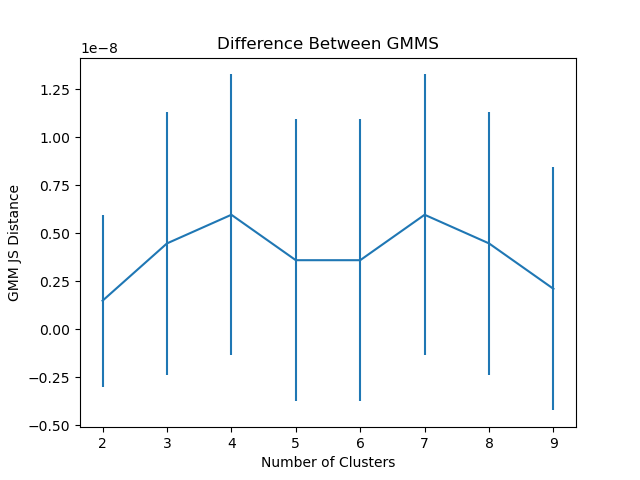
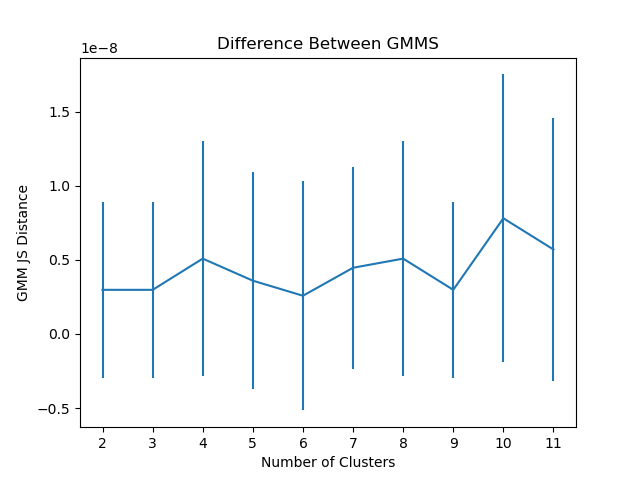
fix: errors in JS cluster fitting and metric calculations

diff --git a/scripts/clustering/gmm_distance.py b/scripts/clustering/gmm_distance.py
@@ -18,7 +18,7 @@ def get_js(m1, m2, n_sample = 10**5):
     log_2_x = m2.score_samples(x)
     log_mix_X = np.logaddexp(log_1_x, log_2_x)
 
-    y = m1.sample(n_sample)[0]
+    y = m2.sample(n_sample)[0]
     log_1_y = m1.score_samples(y)
     log_2_y = m2.score_samples(y)
     log_mix_Y = np.logaddexp(log_1_y, log_2_y)
@@ -38,18 +38,18 @@ def create_js_plot(X, n_range, sample_size = 10000):
         dist = []
         for _ in range(iterations):
             X_sub = X[np.random.choice(len(X), sample_size)]
-
+            scaler = StandardScaler().fit(X_sub)
             # create 50/50 data split
             x1, x2 = train_test_split(X_sub, test_size = 0.5)
 
             #fit models
-            gmm_model = GMM(n_components=n, covariance_type="full")
+            gmm_model = GMM(n_components=n, covariance_type="full", n_init = 20)
             #pipe = Pipeline([('scaler', StandardScaler()), ('gmm', gmm_model)])
             #gmm_1 = pipe.fit(x1)
             #gmm_2 = pipe.fit(x2)
 
-            scaled1 = StandardScaler().fit(x1).transform(x1)
-            scaled2 = StandardScaler().fit(x2).transform(x2)
+            scaled1 = scaler.transform(x1)
+            scaled2 = scaler.transform(x2)
             gmm_1 = gmm_model.fit(scaled1)
             gmm_2 = gmm_model.fit(scaled2)
             dist.append(get_js(gmm_1, gmm_2))
@@ -67,15 +67,24 @@ def create_js_plot(X, n_range, sample_size = 10000):
     return fig
 
 
-def run_js_dist(keywords, param_ranges, 
-                           latRng = [85, 95], lngRng = [230, 330], cluster_rng = [2, 10],
+def run_js_dist(subdir, keywords, param_ranges, 
+                           latRng = [85, 95], lngRng = [230, 330], cluster_rng = [2, 12],
                             cm_num = 1):
     [input_arr, subset_shape] = pre.get_input_array(keywords, param_ranges, latRng, lngRng, cm_num)
     pix_arr = input_arr[:, 0: len(keywords)]
     fig = create_js_plot(pix_arr, cluster_rng)
     keyword_str = "_".join(keywords)
-    fig.savefig(f"cluster_evaluations/GMM_distance_{keyword_str}")
-    
+    fig.savefig(f"cluster_evaluations/{subdir}/js_plot_{keyword_str}")
 
-#run_js_dist(["AOI", "CI"], [[0.1, 0.4], [0.4, 0.8]], [75, 105], [0, 200])
-#run_js_dist(["NH3", "PCld"], [[0, 300], [1000, 3000]], [75, 105], [0, 200])
+lon_range = [0, 30]
+lat_range = [0, 15]
+
+lon_range = [360 - lon_range[1], 360 - lon_range[0]]
+lat_range = [90 - lat_range[1], 90 - lat_range[0]]
+cluster_rng = [2, 12]
+
+
+run_js_dist("20251016UTc/lon_0-30", ["AOI", "CI"], [[0.1, 0.4], [0.4, 0.8]],  lat_range, lon_range, cluster_rng, 1)
+run_js_dist("20251016UTc/lon_0-30", ["NH3", "PCld"], [[0, 300], [1000, 3000]],  lat_range, lon_range, cluster_rng, 1)
+run_js_dist("20251016UTc/lon_0-30", ["275", "395", "502", "619", "631", "645", "673", "727", "889"], 
+                  [[0, 1], [0,  1], [0,  1], [0,  1], [0,  1], [0,  1], [0,  1], [0,  1], [0,  1]], lat_range, lon_range, cluster_rng, 1)

diff --git a/scripts/clustering/cluster_evaluation.py b/scripts/clustering/cluster_evaluation.py
@@ -28,10 +28,11 @@ lat_range = [90 - lat_range[1], 90 - lat_range[0]]
 
 cluster_rng = [2, 10]
 
-get_clustering_evaluations("20251016UTc/lon_0-30", ["NH3", "PCld"], [[0, 300], [1000,  3000]], lat_range, lon_range, cluster_rng, 1)
-get_clustering_evaluations("20251016UTc/lon_0-30", ["AOI", "CI"], [[0.1, 0.4], [0.4, 0.8]], lat_range, lon_range, cluster_rng, 1)
-get_clustering_evaluations("20251016UTc/lon_0-30", ["275", "395", "502", "619", "631", "645", "673", "727", "889"], 
-                 [[0, 1], [0,  1], [0,  1], [0,  1], [0,  1], [0,  1], [0,  1], [0,  1], [0,  1]], lat_range, lon_range, cluster_rng, 1)
+# get_clustering_evaluations("20251016UTc/lon_0-30", ["NH3", "PCld"], [[0, 300], [1000,  3000]], lat_range, lon_range, cluster_rng, 1)
+# get_clustering_evaluations("20251016UTc/lon_0-30", ["AOI", "CI"], [[0.1, 0.4], [0.4, 0.8]], lat_range, lon_range, cluster_rng, 1)
+# get_clustering_evaluations("20251016UTc/lon_0-30", ["275", "395", "502", "619", "631", "645", "673", "727", "889"], 
+#                  [[0, 1], [0,  1], [0,  1], [0,  1], [0,  1], [0,  1], [0,  1], [0,  1], [0,  1]], lat_range, lon_range, cluster_rng, 1)
 
 
+get_clustering_evaluations("20251016UTc/lon_0-30", ["NH3", "PCld", "AOI", "CI"], [[0, 300], [1000,  3000], [0.1, 0.4], [0.4, 0.8]], lat_range, lon_range, cluster_rng, 1)
 

diff --git a/scripts/processes.py b/scripts/processes.py
@@ -274,6 +274,7 @@ lon_range = [360 - lon_range[1], 360 - lon_range[0]]
 lat_range = [90 - lat_range[1], 90 - lat_range[0]]
 
 output_comparison_and_plot("20251016", ["NH3", "PCld"], [[0, 300], [1000,  3100]], lat_range, lon_range, 4)
+output_cluster_map_and_plots("20251016", ["NH3", "PCld", "AOI", "CI"], [[0, 300], [1000,  3100], [0.1, 0.4], [0.4, 0.8]], [75, 105], [0, 200], 4)
 
 #output_comparison_and_plot("20251016", ["AOI", "CI"], [[0.1, 0.4], [0.4, 0.8]], lat_range, lon_range, 5)
 

diff --git a/scripts/clustering/BIC.py b/scripts/clustering/BIC.py
@@ -12,7 +12,7 @@ from sklearn.preprocessing import StandardScaler
 #full, tied, diagonal, spherical
 
 def create_bic_plot(pix_arr, n_range = [2, 10], sample_size = 10000):
-    print(n_range)
+  
     n_cluster = np.arange(n_range[0], n_range[1])
     bics = []
     bic_errs = []
